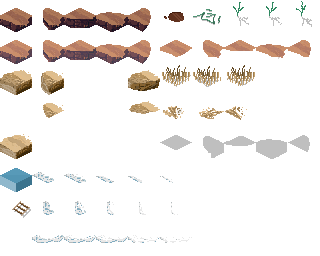
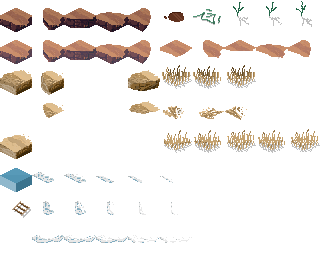
Changed grass texture and tilemap to be less noisy

diff --git a/wyndOS/games/kora/src/scenes/Start.js b/wyndOS/games/kora/src/scenes/Start.js
@@ -6,6 +6,10 @@ export class Start extends Phaser.Scene {
     preload() {
         this.load.tilemapTiledJSON("map", "assets/tlmap/demo/demo.tmj");  
         this.load.image("tileset", "assets/tls/coast.png");
+        this.load.spritesheet('dude', 
+        'assets/dude.png',
+        { frameWidth: 32, frameHeight: 48 }
+    );
     }
 
     create() {
@@ -44,6 +48,7 @@ layers.forEach((layer, index) => {
         const tileAnimations = {
             9:  [7, 8, 7, 9],
             27: [25, 26, 25, 27],
+            49: [45, 46, 48, 47, 49],
             55: [51, 52, 53, 54, 55, 54, 53, 52],
             65: [61, 62, 63, 64, 65, 64, 63, 62],
             75: [71, 72, 73, 74, 75, 74, 73, 72]
@@ -65,6 +70,12 @@ layers.forEach((layer, index) => {
                 }
             });
         });
+
+        // const player = this.physics.add.sprite(100, 450, 'dude');
+
+        // player.setBounce(0.2);
+        // player.setCollideWorldBounds(true);
+
     }
 
     update(time, delta) {
